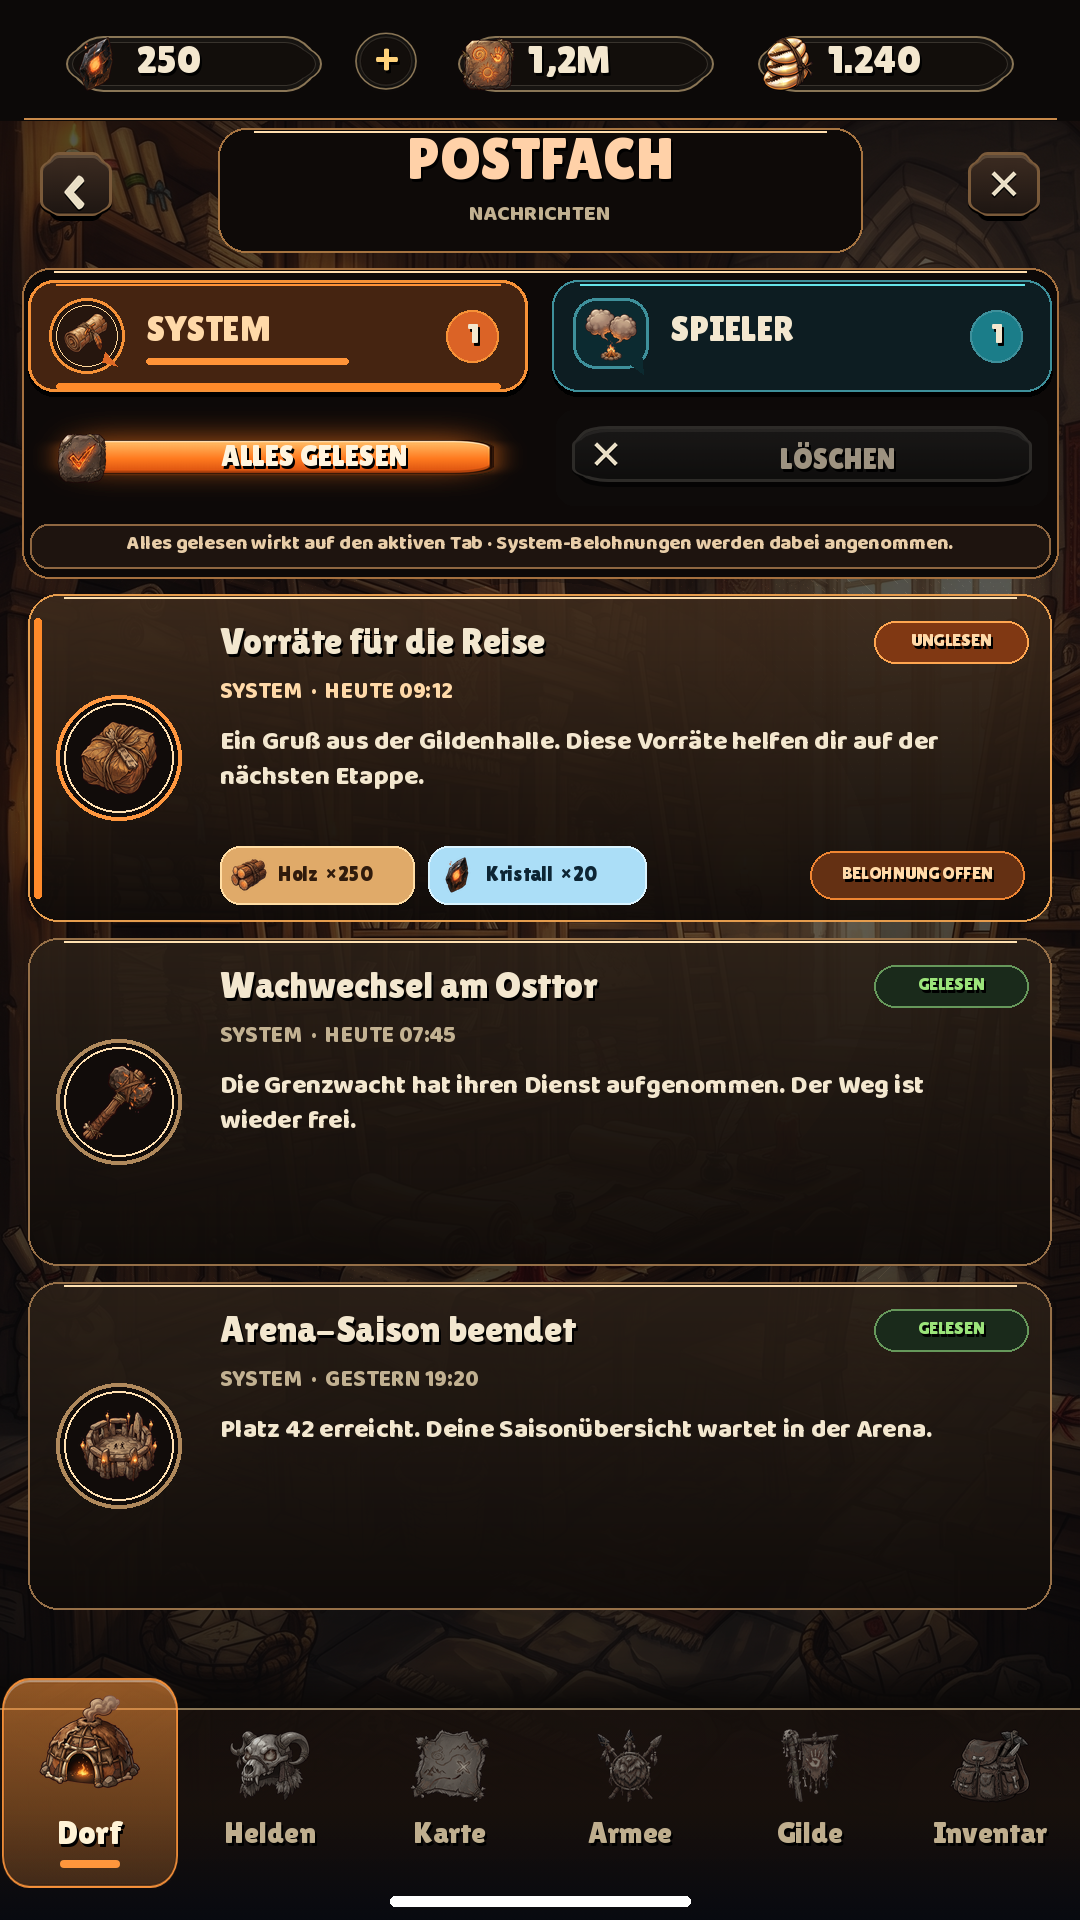
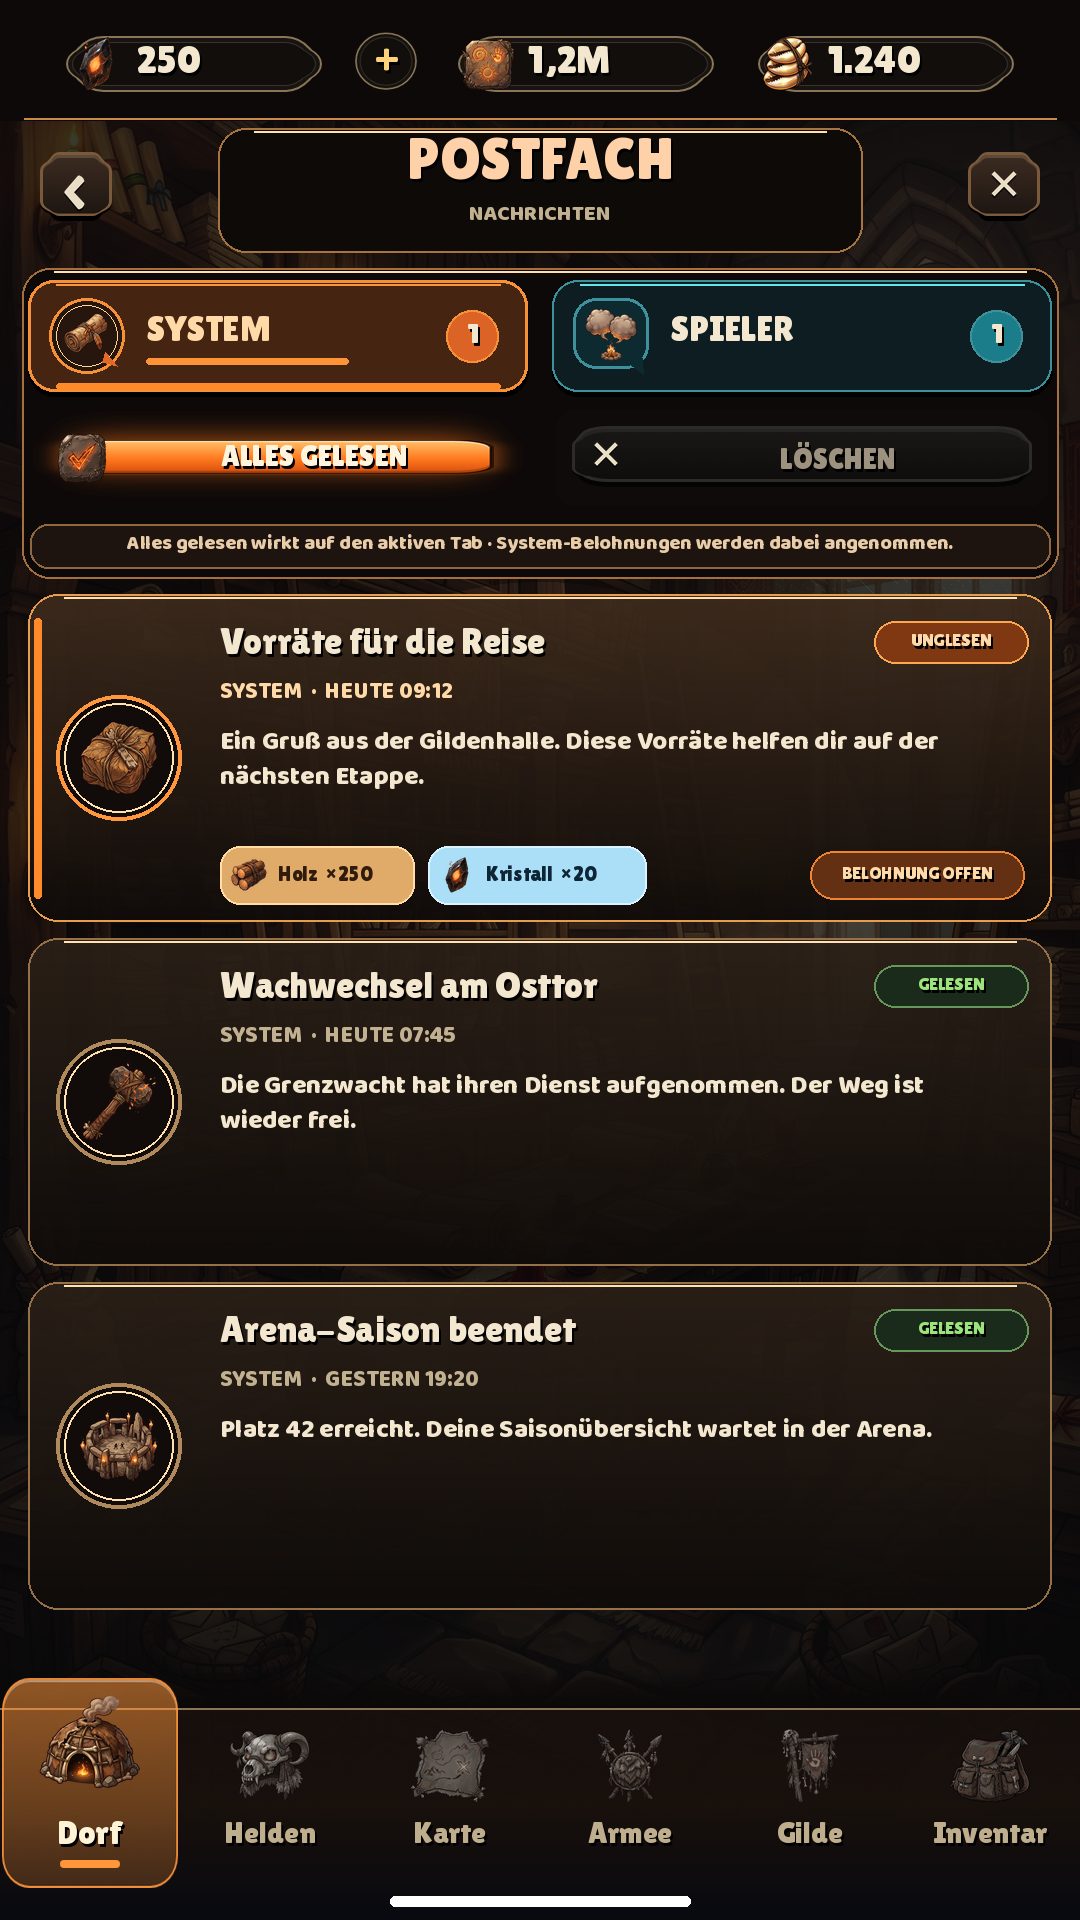
art(hud-d2): Inventar/Mail BG an Beschwören-Dunkelheit angeglichen

diff --git a/team/art/hud_d2/_src/render_vorschau_overlay_mail_d2_v6.py b/team/art/hud_d2/_src/render_vorschau_overlay_mail_d2_v6.py
@@ -82,19 +82,19 @@ def paste(canvas: Image.Image, image: Image.Image, xy: tuple[int, int], size=Non
 
 
 def apply_bg_scrim(canvas: Image.Image) -> None:
-    """Reveal-v16-ähnlich: BG ≥62 % abdunkeln, Szene tritt zurück."""
+    """Reveal-v16-ähnlich; Mail-Szene heller → etwas stärkerer Scrim."""
     scrim = Image.new("RGBA", (W, H), (0, 0, 0, 0))
     d = ImageDraw.Draw(scrim, "RGBA")
     for y in range(H):
         if y < int(H * 0.38):
             t = y / max(1, int(H * 0.38) - 1)
-            a = int(178 + (158 - 178) * t)
+            a = int(208 + (190 - 208) * t)
         elif y < int(H * 0.72):
             t = (y - int(H * 0.38)) / max(1, int(H * 0.72) - int(H * 0.38) - 1)
-            a = int(158 + (184 - 158) * t)
+            a = int(190 + (212 - 190) * t)
         else:
             t = (y - int(H * 0.72)) / max(1, H - int(H * 0.72) - 1)
-            a = int(184 + (230 - 184) * t)
+            a = int(212 + (246 - 212) * t)
         d.line([(0, y), (W, y)], fill=(7, 8, 10, a))
     vignette = Image.new("RGBA", (W, H), (0, 0, 0, 0))
     vd = ImageDraw.Draw(vignette, "RGBA")
@@ -102,7 +102,7 @@ def apply_bg_scrim(canvas: Image.Image) -> None:
     max_r = int((W ** 2 + H ** 2) ** 0.5 * 0.55)
     for r in range(max_r, int(max_r * 0.28), -8):
         edge = 1 - (r / max_r)
-        a = int(118 * max(0, edge - 0.35) / 0.65)
+        a = int(165 * max(0, edge - 0.32) / 0.68)
         if a <= 0:
             continue
         vd.ellipse([cx - r, cy - r, cx + r, cy + r], outline=(3, 4, 6, a), width=8)

diff --git a/team/art/hud_d2/_src/render_vorschau_menu_inventar_d2_v3c.py b/team/art/hud_d2/_src/render_vorschau_menu_inventar_d2_v3c.py
@@ -273,23 +273,21 @@ def apply_bg_scrim(canvas: Image.Image) -> None:
     for y in range(H):
         if y < int(H * 0.38):
             t = y / max(1, int(H * 0.38) - 1)
-            a = int(178 + (158 - 178) * t)  # .70 → .62
+            a = int(196 + (178 - 196) * t)  # ~.77 → .70
         elif y < int(H * 0.72):
             t = (y - int(H * 0.38)) / max(1, int(H * 0.72) - int(H * 0.38) - 1)
-            a = int(158 + (184 - 158) * t)  # .62 → .72
+            a = int(178 + (200 - 178) * t)  # .70 → .78
         else:
             t = (y - int(H * 0.72)) / max(1, H - int(H * 0.72) - 1)
-            a = int(184 + (230 - 184) * t)  # .72 → .90
+            a = int(200 + (242 - 200) * t)  # .78 → .95
         d.line([(0, y), (W, y)], fill=(7, 8, 10, a))
-    # radial vignette like reveal
     vignette = Image.new("RGBA", (W, H), (0, 0, 0, 0))
     vd = ImageDraw.Draw(vignette, "RGBA")
     cx, cy = W // 2, int(H * 0.48)
     max_r = int((W ** 2 + H ** 2) ** 0.5 * 0.55)
     for r in range(max_r, int(max_r * 0.28), -8):
-        # stronger toward edges
         edge = 1 - (r / max_r)
-        a = int(118 * max(0, edge - 0.35) / 0.65)
+        a = int(150 * max(0, edge - 0.35) / 0.65)
         if a <= 0:
             continue
         vd.ellipse([cx - r, cy - r, cx + r, cy + r], outline=(3, 4, 6, a), width=8)
